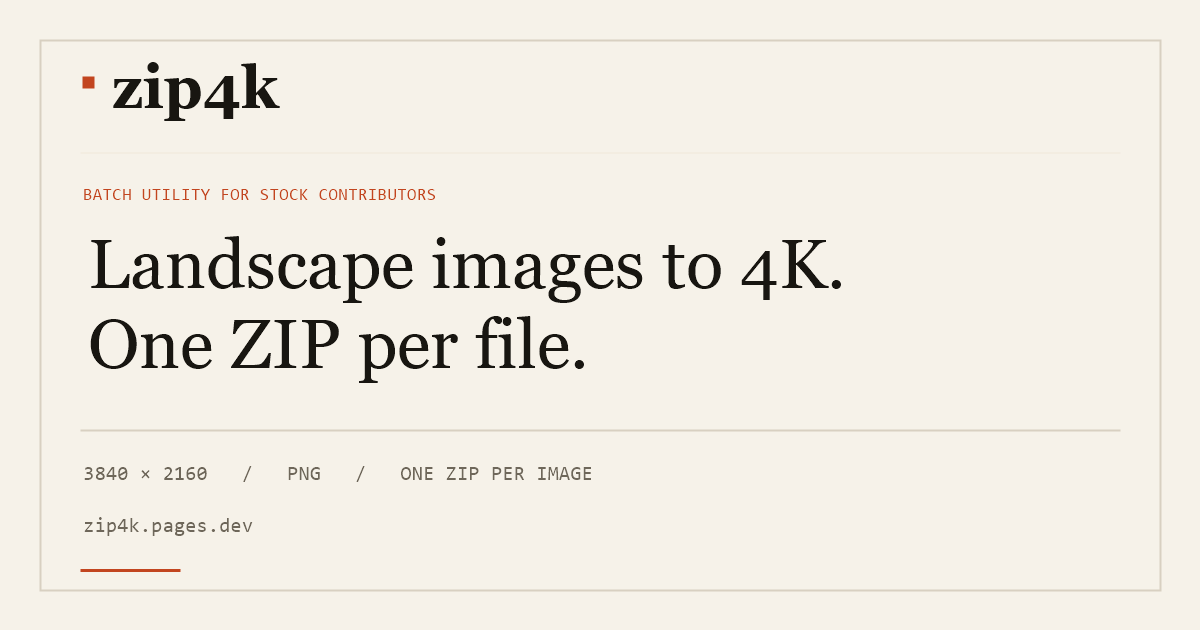
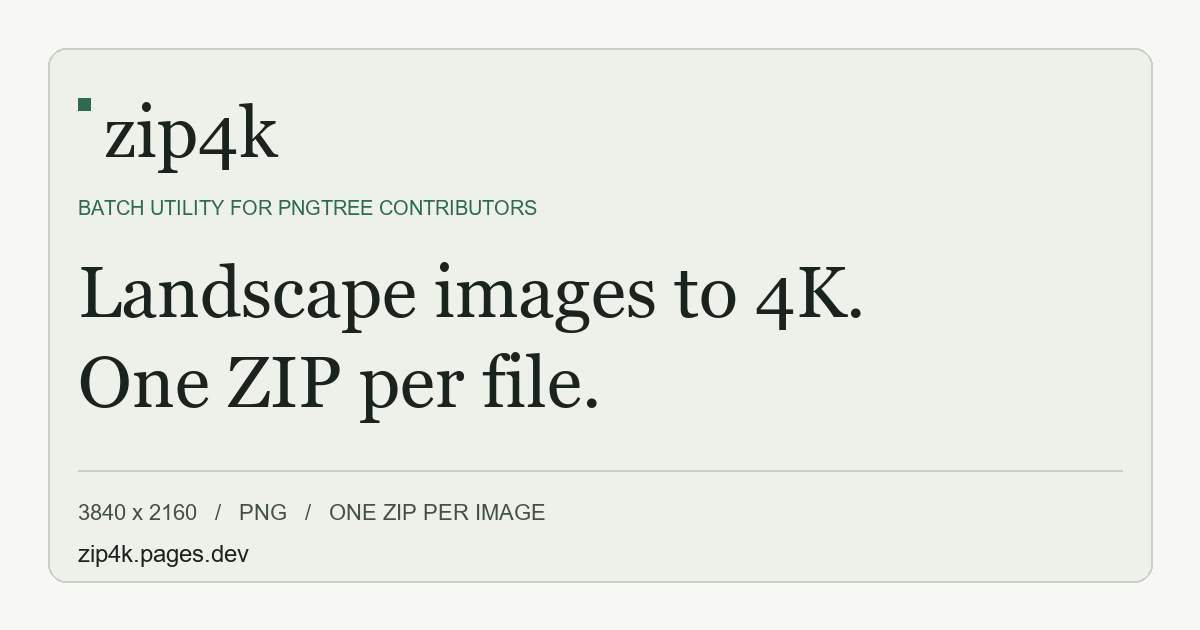
Add GitHub metadata, README screenshots, CI, .nvmrc, and refreshed OG image

Changed region(s): [[0.0308, 0.0603, 0.9867, 0.9651], [0.2775, 0.7841, 0.4625, 0.8444]]

diff --git a/README.md b/README.md
@@ -1,8 +1,28 @@
 # zip4k
 
+[![Live demo](https://img.shields.io/badge/live%20demo-2e6b4e?style=for-the-badge)](https://zip4k.pages.dev/)
+[![MIT License](https://img.shields.io/badge/license-MIT-2e6b4e?style=for-the-badge)](./LICENSE)
+[![Astro](https://img.shields.io/badge/built%20with-Astro-2e6b4e?style=for-the-badge)](https://astro.build/)
+
 An independent batch utility for PNGTree contributors. It center-crops landscape images to 16:9, resizes them to exactly 3840 × 2160, exports PNG, and packages each image in its own ZIP for upload to PNGTree. zip4k is not an official PNGTree tool and is not affiliated with PNGTree.
 
-Everything runs in the browser. Images are never uploaded, and there is no AI in the pipeline — it uses WebGL2 Lanczos resampling and optional light sharpening, with Canvas 2D as fallback.
+[Live demo](https://zip4k.pages.dev/) · [Blog](https://zip4k.pages.dev/blog/) · [How to use zip4k](https://zip4k.pages.dev/blog/how-to-use-zip4k/)
+
+![zip4k home page with the live resample demo](public/blog/how-to-use-zip4k-hero.png)
+
+![zip4k tool with a processed image in the queue](public/blog/how-to-use-zip4k-tool.png)
+
+![zip4k tool on a phone](public/blog/how-to-use-zip4k-mobile.png)
+
+Everything runs in the browser. Images are never uploaded, and there is no AI in the pipeline — it uses WebGL2 Lanczos resampling and optional light sharpening, with Canvas 2D as a fallback.
+
+## Quick start
+
+1. Add landscape photos by dropping them onto the drop zone (or click to browse: JPG, PNG, WebP).
+2. Choose a **Finish**: **Natural** (Lanczos only) or **Crisp** (Lanczos + light unsharp mask, default).
+3. Wait for the green **READY** status, then download one ZIP per image — or use **DOWNLOAD ALL ZIPS**.
+
+Each ZIP contains exactly one PNG at **3840 × 2160** in **16:9** after a centered crop. Processing is sequential (one image at a time) to keep memory predictable, especially on mobile.
 
 ## Features
 
@@ -12,7 +32,7 @@ Everything runs in the browser. Images are never uploaded, and there is no AI in
 - PNG output, one file per ZIP
 - Drag and drop, multi-file queue
 - Bilingual: English (`/`) and Indonesian (`/id/`)
-- Blog scaffold for both languages (`/blog/`, `/id/blog/`)
+- Blog scaffold for both languages (`/blog/`, `/id/blog/`), first post: [How to use zip4k](https://zip4k.pages.dev/blog/how-to-use-zip4k/)
 - Static Astro site, deployable to Cloudflare Pages
 
 ## Development
@@ -28,7 +48,7 @@ npm run build     # production build to dist/
 npm run preview   # preview the production build
 ```
 
-Requires Node.js 22.23.4 or newer (Node 24 recommended).
+Requires Node.js 22.23.4 or newer (Node 24 recommended); `.nvmrc` pins Node 22 for local use and CI.
 
 ## Project layout
 
@@ -90,9 +110,17 @@ If you attach a custom domain, update both. The sitemap is generated by `@astroj
 
 If WebGL2 is unavailable, too large a source is used, or the GPU path fails, the tool falls back to a high-quality Canvas 2D resize without sharpening. Processing is sequential to keep memory use predictable, especially on mobile.
 
+## Privacy
+
+No image leaves your device. There is no server upload, no account, and no tracking of the pixels you process. The tool does use Google Fonts and, when imported, the Google Fonts stylesheet is fetched from Google. Otherwise the pipeline is fully client-side.
+
 ## Stack
 
 - [Astro](https://astro.build/) 7 + TypeScript
 - WebGL2 for Lanczos resampling and sharpening; Canvas 2D fallback
 - [fflate](https://github.com/101arrowz/fflate) for ZIP packaging
 - No UI framework, no runtime dependencies besides fflate
+
+## License
+
+MIT — see [LICENSE](./LICENSE).
